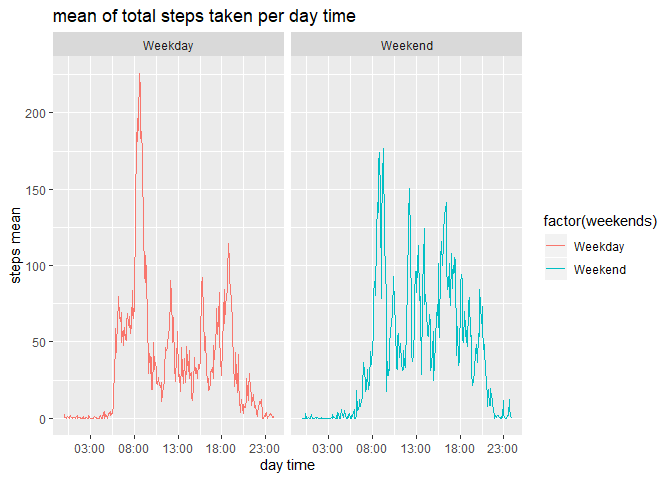
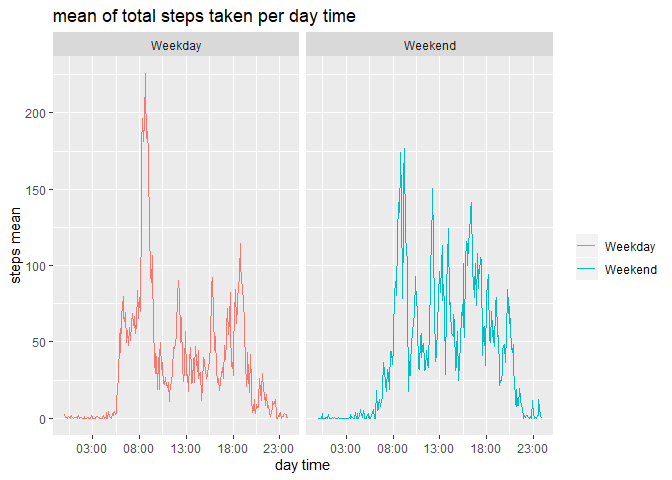
2nd commit

diff --git a/PA1_template.html b/PA1_template.html
@@ -523,10 +523,12 @@ dataByWE$daytime &lt;-as.POSIXct(dataByWE$daytime, format = &quot;%H%M&quot;)</c
 (g  + geom_line()
     + facet_grid(.~factor(weekends)) 
     + labs(y = &quot;steps mean&quot; , x = &quot;day time&quot;)
+    + guides(color=guide_legend(&quot; &quot;)) 
     + labs(title = &quot;mean of total steps taken per day time&quot;, lwd = 3)
     + scale_x_datetime(date_labels = &quot;%H:%M&quot;, date_breaks = &quot;5 hours&quot;)
+
 )</code></pre>
[2 lines of base64/hex data omitted]
 </div>
 
 

diff --git a/PA1_template.md b/PA1_template.md
@@ -254,8 +254,10 @@ g <- ggplot(dataByWE, aes(y = steps, x = daytime,col = factor(weekends)))
 (g  + geom_line()
     + facet_grid(.~factor(weekends)) 
     + labs(y = "steps mean" , x = "day time")
+    + guides(color=guide_legend(" ")) 
     + labs(title = "mean of total steps taken per day time", lwd = 3)
     + scale_x_datetime(date_labels = "%H:%M", date_breaks = "5 hours")
+
 )
 ```
 
